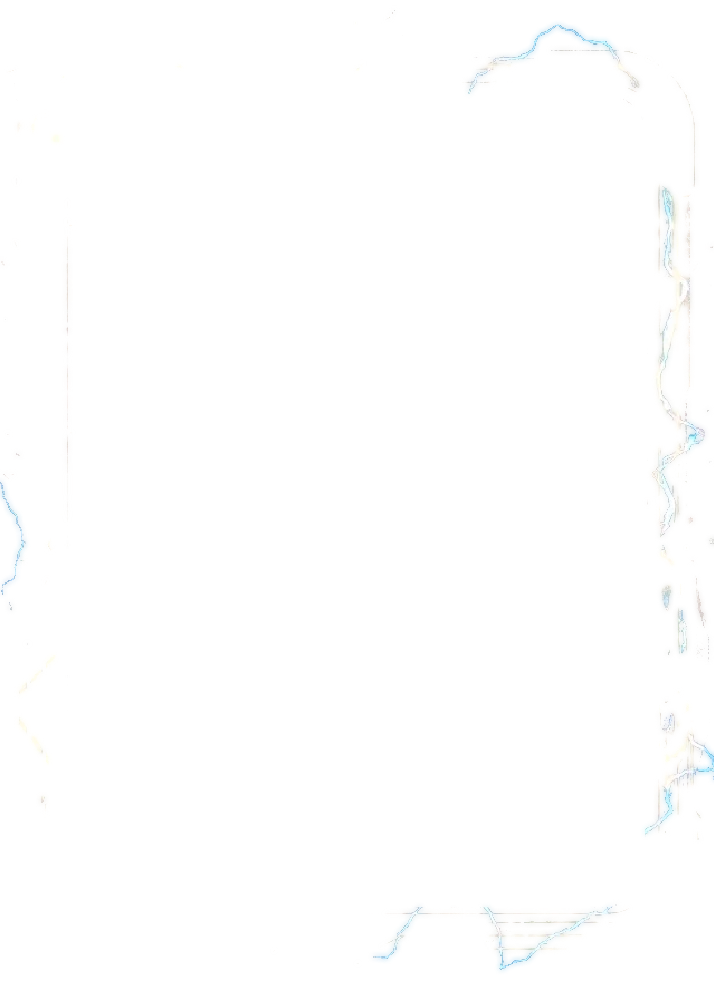
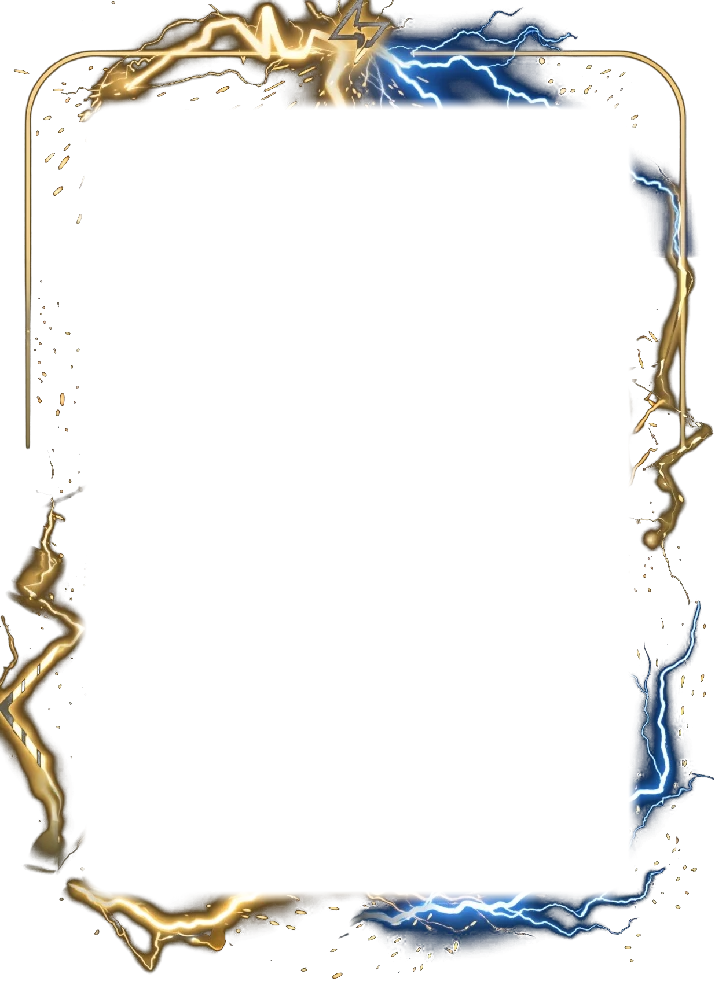
redesign the Lenda do Trovao skin with the owner's Gemini layers

diff --git a/components/cancha-card.tsx b/components/cancha-card.tsx
@@ -80,10 +80,9 @@ const ROUPAS = {
   // Relâmpago (arte montada pelo dono do app em 2026-10-31): o miolo da arte no fundo e, por fora,
   // a moldura dourada pintada com o raio no topo, cacos e raios, que estalam como trovão
   // (`prototipos/skin-relampago-arte.cjs`).
-  // Lenda do Trovão (carta de prestígio, aprovada pelo dono do app em 2026-10-31): a moldura de metal
-  // dourado envelhecido do concept que ele criou, por fora da carta e sem o neon dela (`artFrame`),
-  // os raios azuis estalando como trovão e o miolo da arte de tempestade dele no fundo
-  // (`prototipos/skin-lenda-arte.cjs` e `skin-lenda-fundo.cjs`).
+  // Lenda do Trovão (carta de prestígio): desde 2026-11-01, as três camadas que o dono do app gerou no
+  // Gemini (moldura de metal dourado envelhecido por fora da carta e sem o neon dela, `artFrame`; raios
+  // dourados e azuis que estalam como trovão; fundo de tempestade), em `prototipos/skin-lenda-v2.cjs`.
   lenda: { background: "skin-lenda", overflow: "skin-lenda-vaza", overflowBolts: "skin-lenda-raios", artFrame: true, metal: ["#7a5a1c", "#7a5a1c", "#f0d48a"], accent: "#d9b36a", light: "160 180 255", bar: "#050816", muted: "#e8d3a0", sparkles: false, neon: "#d9b36a", trim: null },
   relampago: { background: "skin-relampago", overflow: "skin-relampago-vaza", overflowBolts: "skin-relampago-raios", metal: ["#7a5a1c", "#7a5a1c", "#f0d48a"], accent: "#e0b250", light: "150 140 255", bar: "#07061c", muted: "#f0d9a0", sparkles: false, neon: "#e8b54a", trim: null },
   // Nuvem carregada (Loja, Temporal 2026, aprovada pelo dono do app em 2026-10-31, no lugar do

diff --git a/CLAUDE.md b/CLAUDE.md
@@ -10,7 +10,7 @@ O **Cancha Club** (chamado PeladApp até 2026-10-24) é uma aplicação web full
 
 Design mobile-first é inegociável: a interação principal (dar notas no vestiário) acontece no celular.
 
-**Estado atual:** tudo lê o Supabase (não há mais mocks). Home (`/`) e atleta (`/jogadores/[memberId]`) leem de `lib/league.ts`; OVR e atributos são sempre calculados das avaliações (`lib/ovr.ts`, `lib/players.ts`); o **OVR é a média das 2 maiores das 3 estatísticas da carta** (Ataque = média de VEL e CHU, Criação = PAS e DRI, Defesa = DEF e FIS; no goleiro Paredão = REF e ELA, Leitura = POS e SAI, Saída = REP e PÉS; cada uma arredondada, a mais fraca sai e o OVR é a média das outras duas, arredondada; desde 2026-10-29, `lib/card-stats.ts` (`OVR_COUNTED_STATS`), migration `20261029130000`, `card_ovr` no banco; antes era a média dos 5 melhores atributos e, por algumas horas, a das 3). Contas: **só o dono da pelada cria e gerencia**, em `/elenco`, por **nome de usuário, sem e-mail** (senha gerada via chave secreta, sem troca obrigatória: o jogador troca se quiser em Eu → "Sua senha"; "Redefinir senha" no elenco). Não existe mais link de convite/cadastro. Login por usuário (ou e-mail, nas contas antigas) e senha (`/entrar`), "Sair" na página Eu. `/bem-vindo` cria a pelada (só o 1º organizador) e leva ao `/elenco`. A antiga `/pelada` virou duas páginas (`/pelada` redireciona para `/rodadas` em `next.config.ts`): **`/rodadas`** (atração principal: nova rodada com data + confirmados do WhatsApp + **sorteio dos times pelo OVR**, lista de rodadas e fechar rodada) e **`/elenco`** (gestão de cadastro, **só o Administrador**: quem não é vai para o Início; cadastrar jogador e painel "Gerenciar" com foto, editar dados, promoção a organizador, redefinir senha e desativar/reativar). A própria conta fica em **`/eu`**: a carta, **Minhas cartas** (escolher a carta em uso), "Sua foto", "Seu nome e apelido", "Sua senha" e "Sair". Sem placar: os times revezam. Todas as rotas, menos `/entrar` e `/auth/*`, exigem login (`proxy.ts`). **Mesa tática (`/rodadas/[matchId]`)**: a partida em campo (Branco x Preto, 1-2-1, titulares e reservas com as cartas completas), aberta ao criar a rodada, com o **cenário do evento** da data da rodada em volta do campo (`PITCH_SCENES` em `team-pitch.tsx`, arte em `public/mesa/<tema>.webp`); dá para avaliar tocando nas cartas e enviar com os votos (`app/rodadas/[matchId]/`, `lib/formation.ts`, `lib/rating-drafts.ts`). Tela de notas passo a passo (`/avaliar/[matchId]`): um jogador por vez, **nota para todos os outros presentes, sem pular** (decisão do dono do app em 2026-10-23; a mesa tática só libera "Votar e enviar" com todos avaliados), envio em lote por `submitEvaluations` (revalida tudo no servidor, inclusive que avaliou todos; uma única inserção). **Fechar a rodada exige 5 envios completos** (`MIN_SUBMISSIONS_TO_CLOSE` em `lib/round-rules.ts`, espelhado em `close_match`) e a **média é aparada como na Street League**: em cada rodada, com 4 ou mais notas recebidas, saem a maior e a menor (ver "Média aparada" abaixo). Publicado na Vercel a partir da `main`. **É um PWA** (desde 2026-10-24): `app/manifest.ts` (tela cheia, `#0b130f`), ícone em `app/icon.svg` (a marca "Quadra vazada" de `components/brand-logo.tsx`, não mais o "C" da Barlow Condensed ExtraBold em contorno; os PNGs de `public/icons/` e `app/apple-icon.png` saem dele por `node scripts/generate-pwa-icons.mjs`, rodado à mão e versionado) e service worker `public/sw.js` (sem cache de páginas, de propósito; já trata `push` e o toque na notificação), registrado por `ServiceWorkerRegister` no layout; o `proxy.ts` deixa `manifest.webmanifest` e `sw.js` passarem sem login. Cartas especiais colecionáveis: **por voto** na tela de notas só o **Gol da Rodada**; **pelas notas da rodada** saem Melhor Jogador (maior nota da rodada entre todos, linha ou gol, desde 2026-10-23), Melhor Goleiro (maior nota do gol), um prêmio por estatística da carta (Melhor Atacante = maior Ataque, **Mais Criativo** = maior Criação, Melhor Defensor = maior Defesa, só linha; desde 2026-10-29, migration `20261029120100`: Foguete, Garçom, Drible, Motor e o **Time da Semana saíram do jogo**, as cartas antigas ficam) e a **Bola Murcha (menor nota da linha)**; Fair Play e Fominha saíram do jogo (decisões do dono do app em 2026-10-21); **só 4 visuais** de carta especial: Melhor Jogador, destaques (Gol e prêmios das estatísticas no visual do Gol, mudando o ícone e o atributo destacado; `awardDesignKind`), Time da Semana e Bola Murcha, além da arte do Time do Mês; e o **Time da Semana** (sem voto, sai das notas), mais o **Time do Mês** (sem voto: as 4 maiores médias do mês na linha e a maior do gol, ao fechar a rodada da última quinta; carta com a arte do dono do app, sem tema sazonal, com pontas e raios vazando do escudo), distribuídas ao fechar a rodada, com temas sazonais (`lib/card-themes.ts`: todas vestem o evento do mês; outubro Halloween (01/10 a 30/10); novembro **Toró** (as chuvas de novembro; chave `temporal` no código, o nome do começo; tempestade: céu escuro, chuva e raios, aprovado pelo dono do app em 2026-10-30, **ligado um dia antes, em 31/10, a pedido dele**, e renomeado para Toró no mesmo dia; o Brasileirão foi tirado em 2026-10-29). **As cartas já ganhas guardam o tema delas** (`awards.theme`): as de Halloween continuam com o visual de Halloween na coleção para sempre; só as novas saem no tema do dia), o evento do mês no **slider de novidades da home** (`NewsSlider`: Time do Mês, evento, Loja, Patentes, XP e CanchaCoins) e coleção em página própria. **Compartilhar nos stories:** na Coleção, o dono da carta (só ele) tem "Compartilhar nos stories" nas cartas da **rodada mais recente**; criou a rodada seguinte, as da anterior saem (`lib/award-share.ts`, sem migration). A arte 1080×1920 é **desenhada direto num canvas** (`lib/story-canvas.ts`, `renderStoryPng`, com as mesmas contas da carta por `getCanchaCardLook`) e vai para o compartilhar nativo (`navigator.share` com o arquivo; sem suporte, "Baixar imagem"). Trocou a captura da tela com `modern-screenshot` em 2026-10-30: no iPhone o story saía sem o fundo e sem o nome. Causa: a foto baixada por `fetch` no otimizador do Next (`/_next/image`) vem em JPEG, sem transparência, e cobria a carta; o canvas busca a foto direto no Storage (WebP, CORS liberado). Ao fechar, a home de cada um mostra **"Confira os vencedores"** até ele abrir o pacote em **`/rodadas/[matchId]/vencedores`** (animação de pacote do FIFA: até 6 passos, pelo peso do prêmio: prêmios individuais com a zoeira primeiro, o Time da Semana em campo, as cartas do Time do Mês e o Melhor Jogador por último, depois o resumo (`buildSteps` em `winners-reveal.tsx`); CSS puro, keyframes `reveal-*` no `globals.css`). O atleta tem duas abas: **Estatísticas** (`/jogadores/[id]`: próxima faixa, destaques, atributos x média da pelada via `lib/athlete-insights.ts` e `getTierProgress`) e **Coleção** (`/jogadores/[id]/colecao`: última conquista, galeria filtrável agrupada por evento). Foto do jogador: **upload pelo app** ("Sua foto" em `/eu` para cada um; "Gerenciar → Foto" para o dono). A máscara da pessoa vem **do servidor** (action `segmentPhoto`, nessa ordem e tudo gratuito: **BiRefNet Portrait num Space ZeroGPU próprio do Hugging Face** via `lib/hf-matte.ts` com `HF_SPACE_URL`/`HF_TOKEN`, código do Space em `hf-space/`; na mesma chamada (API `/enhance`) o Space **melhora a foto antes de recortar**: rosto pelo GFPGAN 1.4 e o resto pelo Real-ESRGAN x2, mistura "leve" (`FACE_WEIGHT` 0,5; a forte mudava a cor dos olhos), de volta ao tamanho enviado, e a carta usa a foto melhorada (decisão do dono do app em 2026-10-31, depois de um teste com a foto dele); as reservas abaixo só recortam; **remove.bg no plano gratuito** via `lib/remove-bg-matte.ts` com `REMOVE_BG_API_KEY`; e, sem os dois, MODNet local em `lib/person-matte.ts` via `onnxruntime-node`) ou, sem rede, **do aparelho** (MediaPipe `selfie_multiclass_256x256`, WASM e modelo servidos pelo app em `/mediapipe/`); o enquadramento no padrão das cartas do EA FC ("modelo C": ombros na largura toda da carta, do peito para cima), a curva e o resto ficam no aparelho (`lib/photo-cutout.ts`), com prévia na carta (**só a foto sem fundo**: a opção "Original" foi tirada por decisão do dono do app; sem recorte, pede para tentar de novo); `uploadPlayerPhoto` padroniza com `sharp` (WebP 640px) e grava as duas em `player-photos/<memberId>/<timestamp>-{cutout,original}.webp` pela chave secreta, apagando as anteriores. Na carta, a foto entra sem filtro de cor (o `PhotoTint` foi removido: fazia faixas no iPhone), com uma **sombra leve atrás da pessoa** (`PhotoShadow`: só degradês radiais no tom da carta, 40%). **XP, nível e CanchaCoins** (`lib/progression.ts`, derivados do histórico como o OVR, só rodadas fechadas; nível na carta e barra no perfil) e a **Loja** (`/loja`): vende **cartas premium** (`types/card-skin.ts`, estilo TOTY champanhe) liberadas por nível e pagas com CanchaCoins, em seções (só o que o jogador ainda não tem; as dele ficam em Eu → Minhas cartas): **Evento** (cartas com `event` em `CARD_SKINS`, à venda só durante o tema daquele ano, `isCardSkinOnSale`; Lobisomem e Vampiro, nível 3, 200 CC, só em outubro de 2026; **Nuvem carregada (no lugar do Trovão desde 2026-10-31) e Relâmpago (refeito em 2026-10-31 com a arte do dono do app: miolo no fundo, moldura pintada por fora da carta e raios que estalam como trovão)**, nível 3, 200 CC, e a **Lenda do Trovão** (carta de prestígio: moldura de metal do concept do dono do app, raios que estalam), nível 5, 600 CC, só em novembro de 2026; quem comprou continua usando) e **Personalização premium** (as fixas). **Promoções** em `lib/shop-sale.ts` (`SHOP_SALES`: hoje a Black Friday, -30% em tudo de 31/10 a 30/11/2026, ligada um dia antes junto com o Toró; enquanto houver promoção, o **primeiro slide do `NewsSlider`** é dela: etiqueta preta com o desconto e as cartas em destaque com o preço riscado e o novo, `SaleBanner`): a Loja risca o preço de tabela e `buyCardSkin` cobra e grava o preço com desconto, calculado no servidor; a carta comprada e em uso substitui a carta padrão em todo lugar (as faixas Bronze/Prata/Ouro continuam pelo OVR). **Cartas de vitrine** (home, prêmio de primeiro login, Loja, Coleção vazia) usam o jogador de exemplo `SAMPLE_PLAYER` (`lib/sample-player.ts`), nunca o rosto e os dados de quem está logado (decisão do dono do app em 2026-10-22). **Navegação (`MainNav`, decisão do dono do app em 2026-10-22: uma por aparelho, cada tela com uma função):** Início, Rodadas, Carreira (`/carreira` → próprio perfil), Loja, Elenco (só o Administrador) e Eu; no celular, barra fixa embaixo (o cabeçalho fica só com o logo); no computador, os mesmos botões no cabeçalho. **Gols confirmados (2026-11-01, design em `docs/superpowers/specs/2026-11-01-gols-confirmados-design.md`):** antes das notas, cada presente informa os próprios gols (0 a 15; o organizador pode marcar por quem ainda não informou, sem o app supor por quê: em 2026-11-01 o dono pediu para tirar o "sem celular" dos textos); **as notas ficam travadas até todos informarem** ou o organizador tocar "Liberar as notas" (`matches.ratings_unlocked_at`; trigger `guard_ratings_open`, código PA006). Na nota de cada colega, "Fulano diz que fez 3 gols · Confirmo / Não foi isso" (opcional); **3 "sim" confirmam**, não importa quantos "não"; corrigir o número zera as confirmações; quem marcou os gols de alguém não conta como "sim" neles. Tabelas `match_goals` e `match_goal_confirmations`, funções `report_goals`, `confirm_goals`, `unlock_ratings`, `get_group_goals`, `ratings_open` (migration `20261101120100`); regras e tipos para o navegador em `lib/goal-rules.ts`, leitura no servidor em `lib/match-goals.ts`, actions em `app/_actions/match-goals.ts`. Gols confirmados aparecem na bolinha embaixo da carta na mesa tática, no bloco "Gols" e na coluna do histórico do atleta, e dão a carta **Goleador da Rodada** (`goleador`, mais gols confirmados, mínimo 1, empate leva todos, `awards.votes` = gols; visual de destaque). Cada gol confirmado dá **+10 XP e +5 CC** (decisão do dono do app em 2026-11-01: é a única estatística real do jogo, então vale um pouco mais), além do XP e das moedas da carta do Goleador. Teste: `supabase/scripts/seed-test-goals.sql` e `seed-test-goals-submit.sql` (limpa com `cleanup-test-round.sql`); a `seed-test-round.sql` antiga quebra com a trava das notas. Faltam: fechamento automático da rodada (24h), animação de revelação do OVR (ver "Próximos passos"). Atualize esta linha quando isso mudar.
+**Estado atual:** tudo lê o Supabase (não há mais mocks). Home (`/`) e atleta (`/jogadores/[memberId]`) leem de `lib/league.ts`; OVR e atributos são sempre calculados das avaliações (`lib/ovr.ts`, `lib/players.ts`); o **OVR é a média das 2 maiores das 3 estatísticas da carta** (Ataque = média de VEL e CHU, Criação = PAS e DRI, Defesa = DEF e FIS; no goleiro Paredão = REF e ELA, Leitura = POS e SAI, Saída = REP e PÉS; cada uma arredondada, a mais fraca sai e o OVR é a média das outras duas, arredondada; desde 2026-10-29, `lib/card-stats.ts` (`OVR_COUNTED_STATS`), migration `20261029130000`, `card_ovr` no banco; antes era a média dos 5 melhores atributos e, por algumas horas, a das 3). Contas: **só o dono da pelada cria e gerencia**, em `/elenco`, por **nome de usuário, sem e-mail** (senha gerada via chave secreta, sem troca obrigatória: o jogador troca se quiser em Eu → "Sua senha"; "Redefinir senha" no elenco). Não existe mais link de convite/cadastro. Login por usuário (ou e-mail, nas contas antigas) e senha (`/entrar`), "Sair" na página Eu. `/bem-vindo` cria a pelada (só o 1º organizador) e leva ao `/elenco`. A antiga `/pelada` virou duas páginas (`/pelada` redireciona para `/rodadas` em `next.config.ts`): **`/rodadas`** (atração principal: nova rodada com data + confirmados do WhatsApp + **sorteio dos times pelo OVR**, lista de rodadas e fechar rodada) e **`/elenco`** (gestão de cadastro, **só o Administrador**: quem não é vai para o Início; cadastrar jogador e painel "Gerenciar" com foto, editar dados, promoção a organizador, redefinir senha e desativar/reativar). A própria conta fica em **`/eu`**: a carta, **Minhas cartas** (escolher a carta em uso), "Sua foto", "Seu nome e apelido", "Sua senha" e "Sair". Sem placar: os times revezam. Todas as rotas, menos `/entrar` e `/auth/*`, exigem login (`proxy.ts`). **Mesa tática (`/rodadas/[matchId]`)**: a partida em campo (Branco x Preto, 1-2-1, titulares e reservas com as cartas completas), aberta ao criar a rodada, com o **cenário do evento** da data da rodada em volta do campo (`PITCH_SCENES` em `team-pitch.tsx`, arte em `public/mesa/<tema>.webp`); dá para avaliar tocando nas cartas e enviar com os votos (`app/rodadas/[matchId]/`, `lib/formation.ts`, `lib/rating-drafts.ts`). Tela de notas passo a passo (`/avaliar/[matchId]`): um jogador por vez, **nota para todos os outros presentes, sem pular** (decisão do dono do app em 2026-10-23; a mesa tática só libera "Votar e enviar" com todos avaliados), envio em lote por `submitEvaluations` (revalida tudo no servidor, inclusive que avaliou todos; uma única inserção). **Fechar a rodada exige 5 envios completos** (`MIN_SUBMISSIONS_TO_CLOSE` em `lib/round-rules.ts`, espelhado em `close_match`) e a **média é aparada como na Street League**: em cada rodada, com 4 ou mais notas recebidas, saem a maior e a menor (ver "Média aparada" abaixo). Publicado na Vercel a partir da `main`. **É um PWA** (desde 2026-10-24): `app/manifest.ts` (tela cheia, `#0b130f`), ícone em `app/icon.svg` (a marca "Quadra vazada" de `components/brand-logo.tsx`, não mais o "C" da Barlow Condensed ExtraBold em contorno; os PNGs de `public/icons/` e `app/apple-icon.png` saem dele por `node scripts/generate-pwa-icons.mjs`, rodado à mão e versionado) e service worker `public/sw.js` (sem cache de páginas, de propósito; já trata `push` e o toque na notificação), registrado por `ServiceWorkerRegister` no layout; o `proxy.ts` deixa `manifest.webmanifest` e `sw.js` passarem sem login. Cartas especiais colecionáveis: **por voto** na tela de notas só o **Gol da Rodada**; **pelas notas da rodada** saem Melhor Jogador (maior nota da rodada entre todos, linha ou gol, desde 2026-10-23), Melhor Goleiro (maior nota do gol), um prêmio por estatística da carta (Melhor Atacante = maior Ataque, **Mais Criativo** = maior Criação, Melhor Defensor = maior Defesa, só linha; desde 2026-10-29, migration `20261029120100`: Foguete, Garçom, Drible, Motor e o **Time da Semana saíram do jogo**, as cartas antigas ficam) e a **Bola Murcha (menor nota da linha)**; Fair Play e Fominha saíram do jogo (decisões do dono do app em 2026-10-21); **só 4 visuais** de carta especial: Melhor Jogador, destaques (Gol e prêmios das estatísticas no visual do Gol, mudando o ícone e o atributo destacado; `awardDesignKind`), Time da Semana e Bola Murcha, além da arte do Time do Mês; e o **Time da Semana** (sem voto, sai das notas), mais o **Time do Mês** (sem voto: as 4 maiores médias do mês na linha e a maior do gol, ao fechar a rodada da última quinta; carta com a arte do dono do app, sem tema sazonal, com pontas e raios vazando do escudo), distribuídas ao fechar a rodada, com temas sazonais (`lib/card-themes.ts`: todas vestem o evento do mês; outubro Halloween (01/10 a 30/10); novembro **Toró** (as chuvas de novembro; chave `temporal` no código, o nome do começo; tempestade: céu escuro, chuva e raios, aprovado pelo dono do app em 2026-10-30, **ligado um dia antes, em 31/10, a pedido dele**, e renomeado para Toró no mesmo dia; o Brasileirão foi tirado em 2026-10-29). **As cartas já ganhas guardam o tema delas** (`awards.theme`): as de Halloween continuam com o visual de Halloween na coleção para sempre; só as novas saem no tema do dia), o evento do mês no **slider de novidades da home** (`NewsSlider`: Time do Mês, evento, Loja, Patentes, XP e CanchaCoins) e coleção em página própria. **Compartilhar nos stories:** na Coleção, o dono da carta (só ele) tem "Compartilhar nos stories" nas cartas da **rodada mais recente**; criou a rodada seguinte, as da anterior saem (`lib/award-share.ts`, sem migration). A arte 1080×1920 é **desenhada direto num canvas** (`lib/story-canvas.ts`, `renderStoryPng`, com as mesmas contas da carta por `getCanchaCardLook`) e vai para o compartilhar nativo (`navigator.share` com o arquivo; sem suporte, "Baixar imagem"). Trocou a captura da tela com `modern-screenshot` em 2026-10-30: no iPhone o story saía sem o fundo e sem o nome. Causa: a foto baixada por `fetch` no otimizador do Next (`/_next/image`) vem em JPEG, sem transparência, e cobria a carta; o canvas busca a foto direto no Storage (WebP, CORS liberado). Ao fechar, a home de cada um mostra **"Confira os vencedores"** até ele abrir o pacote em **`/rodadas/[matchId]/vencedores`** (animação de pacote do FIFA: até 6 passos, pelo peso do prêmio: prêmios individuais com a zoeira primeiro, o Time da Semana em campo, as cartas do Time do Mês e o Melhor Jogador por último, depois o resumo (`buildSteps` em `winners-reveal.tsx`); CSS puro, keyframes `reveal-*` no `globals.css`). O atleta tem duas abas: **Estatísticas** (`/jogadores/[id]`: próxima faixa, destaques, atributos x média da pelada via `lib/athlete-insights.ts` e `getTierProgress`) e **Coleção** (`/jogadores/[id]/colecao`: última conquista, galeria filtrável agrupada por evento). Foto do jogador: **upload pelo app** ("Sua foto" em `/eu` para cada um; "Gerenciar → Foto" para o dono). A máscara da pessoa vem **do servidor** (action `segmentPhoto`, nessa ordem e tudo gratuito: **BiRefNet Portrait num Space ZeroGPU próprio do Hugging Face** via `lib/hf-matte.ts` com `HF_SPACE_URL`/`HF_TOKEN`, código do Space em `hf-space/`; na mesma chamada (API `/enhance`) o Space **melhora a foto antes de recortar**: rosto pelo GFPGAN 1.4 e o resto pelo Real-ESRGAN x2, mistura "leve" (`FACE_WEIGHT` 0,5; a forte mudava a cor dos olhos), de volta ao tamanho enviado, e a carta usa a foto melhorada (decisão do dono do app em 2026-10-31, depois de um teste com a foto dele); as reservas abaixo só recortam; **remove.bg no plano gratuito** via `lib/remove-bg-matte.ts` com `REMOVE_BG_API_KEY`; e, sem os dois, MODNet local em `lib/person-matte.ts` via `onnxruntime-node`) ou, sem rede, **do aparelho** (MediaPipe `selfie_multiclass_256x256`, WASM e modelo servidos pelo app em `/mediapipe/`); o enquadramento no padrão das cartas do EA FC ("modelo C": ombros na largura toda da carta, do peito para cima), a curva e o resto ficam no aparelho (`lib/photo-cutout.ts`), com prévia na carta (**só a foto sem fundo**: a opção "Original" foi tirada por decisão do dono do app; sem recorte, pede para tentar de novo); `uploadPlayerPhoto` padroniza com `sharp` (WebP 640px) e grava as duas em `player-photos/<memberId>/<timestamp>-{cutout,original}.webp` pela chave secreta, apagando as anteriores. Na carta, a foto entra sem filtro de cor (o `PhotoTint` foi removido: fazia faixas no iPhone), com uma **sombra leve atrás da pessoa** (`PhotoShadow`: só degradês radiais no tom da carta, 40%). **XP, nível e CanchaCoins** (`lib/progression.ts`, derivados do histórico como o OVR, só rodadas fechadas; nível na carta e barra no perfil) e a **Loja** (`/loja`): vende **cartas premium** (`types/card-skin.ts`, estilo TOTY champanhe) liberadas por nível e pagas com CanchaCoins, em seções (só o que o jogador ainda não tem; as dele ficam em Eu → Minhas cartas): **Evento** (cartas com `event` em `CARD_SKINS`, à venda só durante o tema daquele ano, `isCardSkinOnSale`; Lobisomem e Vampiro, nível 3, 200 CC, só em outubro de 2026; **Nuvem carregada (no lugar do Trovão desde 2026-10-31) e Relâmpago (refeito em 2026-10-31 com a arte do dono do app: miolo no fundo, moldura pintada por fora da carta e raios que estalam como trovão)**, nível 3, 200 CC, e a **Lenda do Trovão** (carta de prestígio; desde 2026-11-01 com as três camadas geradas pelo dono no Gemini, o começo do redesign das cartas: moldura de metal dourado, fundo de tempestade e raios que estalam), nível 5, 600 CC, só em novembro de 2026; quem comprou continua usando) e **Personalização premium** (as fixas). **Promoções** em `lib/shop-sale.ts` (`SHOP_SALES`: hoje a Black Friday, -30% em tudo de 31/10 a 30/11/2026, ligada um dia antes junto com o Toró; enquanto houver promoção, o **primeiro slide do `NewsSlider`** é dela: etiqueta preta com o desconto e as cartas em destaque com o preço riscado e o novo, `SaleBanner`): a Loja risca o preço de tabela e `buyCardSkin` cobra e grava o preço com desconto, calculado no servidor; a carta comprada e em uso substitui a carta padrão em todo lugar (as faixas Bronze/Prata/Ouro continuam pelo OVR). **Cartas de vitrine** (home, prêmio de primeiro login, Loja, Coleção vazia) usam o jogador de exemplo `SAMPLE_PLAYER` (`lib/sample-player.ts`), nunca o rosto e os dados de quem está logado (decisão do dono do app em 2026-10-22). **Navegação (`MainNav`, decisão do dono do app em 2026-10-22: uma por aparelho, cada tela com uma função):** Início, Rodadas, Carreira (`/carreira` → próprio perfil), Loja, Elenco (só o Administrador) e Eu; no celular, barra fixa embaixo (o cabeçalho fica só com o logo); no computador, os mesmos botões no cabeçalho. **Gols confirmados (2026-11-01, design em `docs/superpowers/specs/2026-11-01-gols-confirmados-design.md`):** antes das notas, cada presente informa os próprios gols (0 a 15; o organizador pode marcar por quem ainda não informou, sem o app supor por quê: em 2026-11-01 o dono pediu para tirar o "sem celular" dos textos); **as notas ficam travadas até todos informarem** ou o organizador tocar "Liberar as notas" (`matches.ratings_unlocked_at`; trigger `guard_ratings_open`, código PA006). Na nota de cada colega, "Fulano diz que fez 3 gols · Confirmo / Não foi isso" (opcional); **3 "sim" confirmam**, não importa quantos "não"; corrigir o número zera as confirmações; quem marcou os gols de alguém não conta como "sim" neles. Tabelas `match_goals` e `match_goal_confirmations`, funções `report_goals`, `confirm_goals`, `unlock_ratings`, `get_group_goals`, `ratings_open` (migration `20261101120100`); regras e tipos para o navegador em `lib/goal-rules.ts`, leitura no servidor em `lib/match-goals.ts`, actions em `app/_actions/match-goals.ts`. Gols confirmados aparecem na bolinha embaixo da carta na mesa tática, no bloco "Gols" e na coluna do histórico do atleta, e dão a carta **Goleador da Rodada** (`goleador`, mais gols confirmados, mínimo 1, empate leva todos, `awards.votes` = gols; visual de destaque). Cada gol confirmado dá **+10 XP e +5 CC** (decisão do dono do app em 2026-11-01: é a única estatística real do jogo, então vale um pouco mais), além do XP e das moedas da carta do Goleador. Teste: `supabase/scripts/seed-test-goals.sql` e `seed-test-goals-submit.sql` (limpa com `cleanup-test-round.sql`); a `seed-test-round.sql` antiga quebra com a trava das notas. Faltam: fechamento automático da rodada (24h), animação de revelação do OVR (ver "Próximos passos"). Atualize esta linha quando isso mudar.
 
 **Nome (decisão do dono do app em 2026-10-24):** o app se chama **Cancha Club** (já existia outro "PeladApp"); logo = a marca "Quadra vazada" + "CANCHA" e "CLUB" em lima, em caixa alta (`BrandLogo`/`BrandMark` em `components/brand-logo.tsx`; ver design-system), moeda **CanchaCoins (CC)**. Ficaram com o nome antigo **de propósito**, porque o usuário não vê e trocar quebraria algo: o domínio técnico do login `peladapp.invalid` (`lib/username.ts`; trocar derruba o login de todas as contas), o cookie `peladapp_active_group`, a chave `peladapp_nav_owner`, as migrations e scripts SQL, o Space `peladapp-recorte` do Hugging Face, o nome do pacote, a pasta e o repositório. Falta: busca de marca no INPI (com o dono) e registrar canchaclub.com.br.
 

diff --git a/.claude/rules/design-system.md b/.claude/rules/design-system.md
@@ -33,6 +33,7 @@ Desde 2026-10-29 todas as cartas usam a `CanchaCard` (o `PlayerCard` a chama). A
 - **Roupas** (`ROUPAS` no componente): fundo em imagem (`public/cartas/fundos/`), cores das barras, fios e luz. Efeitos ricos ficam **assados na imagem** (sem `filter`/`mix-blend-mode` na carta, por causa do iPhone).
 - **Sombra atrás da foto (aprovada pelo dono do app em 2026-10-29, "A · Halo escuro"):** em toda carta com foto, uma sombra escura logo atrás da cabeça e dos ombros (`PhotoShadow`: elipses em SVG com o degradê `cc-photo-shadow` de `PlayerCardDefs`, atrás da faixa do nome), para o jogador se descolar do fundo. Não use `radial-gradient` do CSS para isso: no story do iPhone virava uma camada preta por cima do fundo e do nome.
 - **Carta padrão:** grafite fosco, sem brilho, moldura **fina de metal polido** (`METAL_FRAME`, faixas de reflexo na cor da moldura).
+- **Lenda do Trovão, versão 2 (2026-11-01, a primeira do redesign com o Gemini):** o dono gerou no Gemini as três camadas no mesmo enquadramento (moldura de metal dourado sobre preto, fundo de tempestade sobre ruínas e raios dourados e azuis sobre preto), com o prompt de três partes (contexto, carta, camadas) e aprovou como saiu, mesmo com o fundo parecido com o do Relâmpago. `prototipos/skin-lenda-v2.cjs`: carta = centro do tubo de dentro da moldura, moldura e raios recortados do preto pela luminância, raios só por fora e numa faixa de 5% rente à borda por dentro (o miolo fica para a foto). É o molde para as próximas cartas do redesign. O texto abaixo descreve a versão 1 (scripts `skin-lenda-arte.cjs`/`skin-lenda-fundo.cjs`, que não rodam mais).
 - **Lenda do Trovão** (carta de prestígio **do evento Toró**, na seção Evento da Loja, **nível 5, 600 CC**, à venda só até 30/11/2026; aprovada pelo dono do app em 2026-10-31, primeiro como fixa no nível 10 e no mesmo dia passada para o evento no nível 5): a **moldura de metal dourado envelhecido** de um concept que o dono criou no Gemini, com o raio no topo e raios dourados e azuis, entra por fora da carta como arte (`overflow`), **sem o tubo de neon da carta** (`artFrame`), cobrindo uns 12 px da borda; os **raios azuis estalam como trovão** (`overflowBolts`; os dourados ficam acesos, porque têm a cor do metal e não dá para separar pela cor); o fundo é o miolo da arte de tempestade dele (nuvens carregadas com luz dourada). Scripts `prototipos/skin-lenda-arte.cjs` (moldura e raios, do concept) e `skin-lenda-fundo.cjs` (fundo). Para ficar perfeita, o dono vai gerar no Gemini a moldura, o fundo e os raios em peças separadas. Testadas e descartadas no caminho, como experimento: a carta com a arte de chuva (árvore e água) e a de tempestade com moldura azul e dourada.
 - **Skins premium** (Esmeralda grátis, Safira, Ametista, Rubi e **Ícone em branco creme com dourado** (nível 11 desde 2026-11-01, antes 16), lembrando a Icon do FIFA; Turquesa e Ônix saíram em 2026-10-29): fundo lapidado na cor da pedra e moldura em **tubo de neon** (centro quase branco e a cor só no brilho, `NEON_FRAME`/`NEON_HALO`) com o **enfeite que abraça a base** (`NEON_TRIMS.base`: dois fios que começam no meio das laterais e fecham numa ponta embaixo).
 - **Toró (novembro de 2026; chave `temporal`; aprovado pelo dono do app em 2026-10-30, ligado em 31/10 e renomeado de "Temporal" para "Toró" no mesmo dia):** a **mesa tática** é uma **quadra alagada** renderizada pixel a pixel (lâmina de água com o piso por baixo, anéis dos pingos, marulho e o reflexo dos refletores dos cantos; meio escuro para as cartas; sem linhas, que cada campo já desenha; `prototipos/mesa-temporal.cjs`, `public/mesa/temporal.webp`). **Melhor Jogador** com a **mesma carta de fora de evento, o sol art déco** (pedido do dono do app em 2026-10-31; antes era a taça dourada no céu de tempestade, `premio-craque-temporal.webp`, que ficou sem uso), neon dourado, estrela no topo e um fio na base. **Destaques** (Atacante, Criativo, Defensor, Goleiro, Gol): a **mesma carta de fora de evento, a água com a nuvem chovendo** (pedido do dono do app em 2026-10-31; os raios dourados de marca d'água, `premio-destaque-temporal.webp`, ficaram sem uso). Loja: **Nuvem carregada** (aprovada pelo dono do app em 2026-10-31, no lugar do Trovão roxo, que ficava parecido com o Time do Mês): nuvens de tempestade pintadas em poucos tons, do cinza-azulado ao branco, com um canal de céu escuro atrás do jogador (`prototipos/skin-nuvem.cjs`), neon branco, a nuvem com raio no topo (`NEON_TRIMS.nuvem`), uma **moldura elétrica** em volta da metade de baixo, por fora (fio quebrado em zigue-zague, fios finos ondulando e faíscas, no estilo de uma moldura de raios que o dono mandou; `ElectricTrim`, `lib/electric-trim.ts`) e **mini raios no mesmo estilo** estalando nas nuvens de dentro, atrás do jogador (`CloudBolts`). Animação de trovão: os fios finos, as faíscas e os mini raios dão dois estalos rápidos e apagam, cada um no seu tempo (`cc-thunder-strike`/`cc-thunder-flash` no `globals.css`); só `opacity`, e com movimento reduzido fica parado (os mini raios somem). Testado e descartado pelo dono: as nuvens vazando para fora da carta (aparecia a divisa da carta) e raios grandes por cima delas; e uma skin de água com ondas de seda. E **Relâmpago** (refeito em 2026-10-31 a partir de uma **arte montada pelo próprio dono do app**, com referências do EA FC alteradas para o estilo do Cancha Club; `prototipos/relampago-arte-dono.jpg`): o miolo da arte (tempestade de nuvens com raios dourados, cacos e chão de triângulos em azul-noite) é o fundo, e a moldura dourada pintada, com o raio no topo, cacos e raios nas laterais, fica **por fora da carta** numa imagem transparente (`overflow`, `skin-relampago-vaza`); os **raios das decorações** ficam numa camada própria (`overflowBolts`, `skin-relampago-raios`) que **estala como trovão** (`cc-thunder-strike`), e a moldura de linhas retas fica sempre acesa. Neon dourado, sem enfeite de código (`trim: null`). `prototipos/skin-relampago-arte.cjs` separa as três imagens (medidas do tubo de dentro = borda da carta; o preto recortado pela luminância; os raios pelos retângulos medidos, sem as faixas das linhas). Testados e descartados pelo dono no caminho: asas de raio nas laterais (vazadas e cheias), base em suporte, coroa de raios, cantos art déco, moldura em zigue-zague, moldura em escudo, os fundos de rede de relâmpagos e de feixes de luz caindo, e fundos gerados pelo FLUX. **Lição do dono (2026-10-31):** arte desenhada só com código parece "feita no Paint"; para skins premium, ele quer textura real (render 3D, metal, nuvem volumétrica): arte gerada por modelo aberto (FLUX.1-schnell, grátis no Hugging Face, cota pequena sem login) ou montada por ele.relampago`). Aviso de vencedores, pacote e story em azul-tempestade com nuvem de raio.
